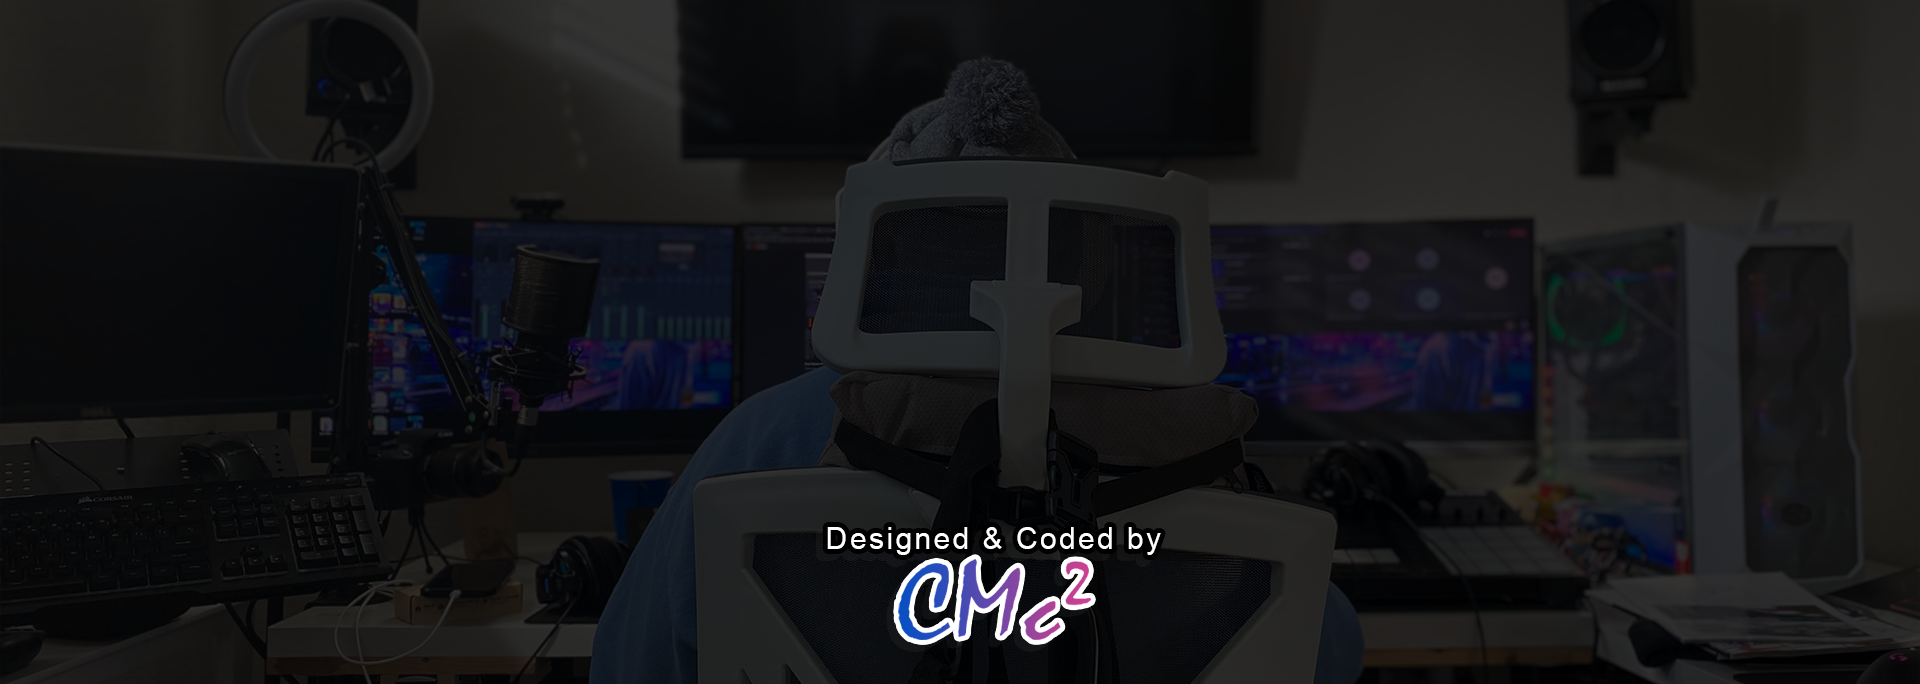
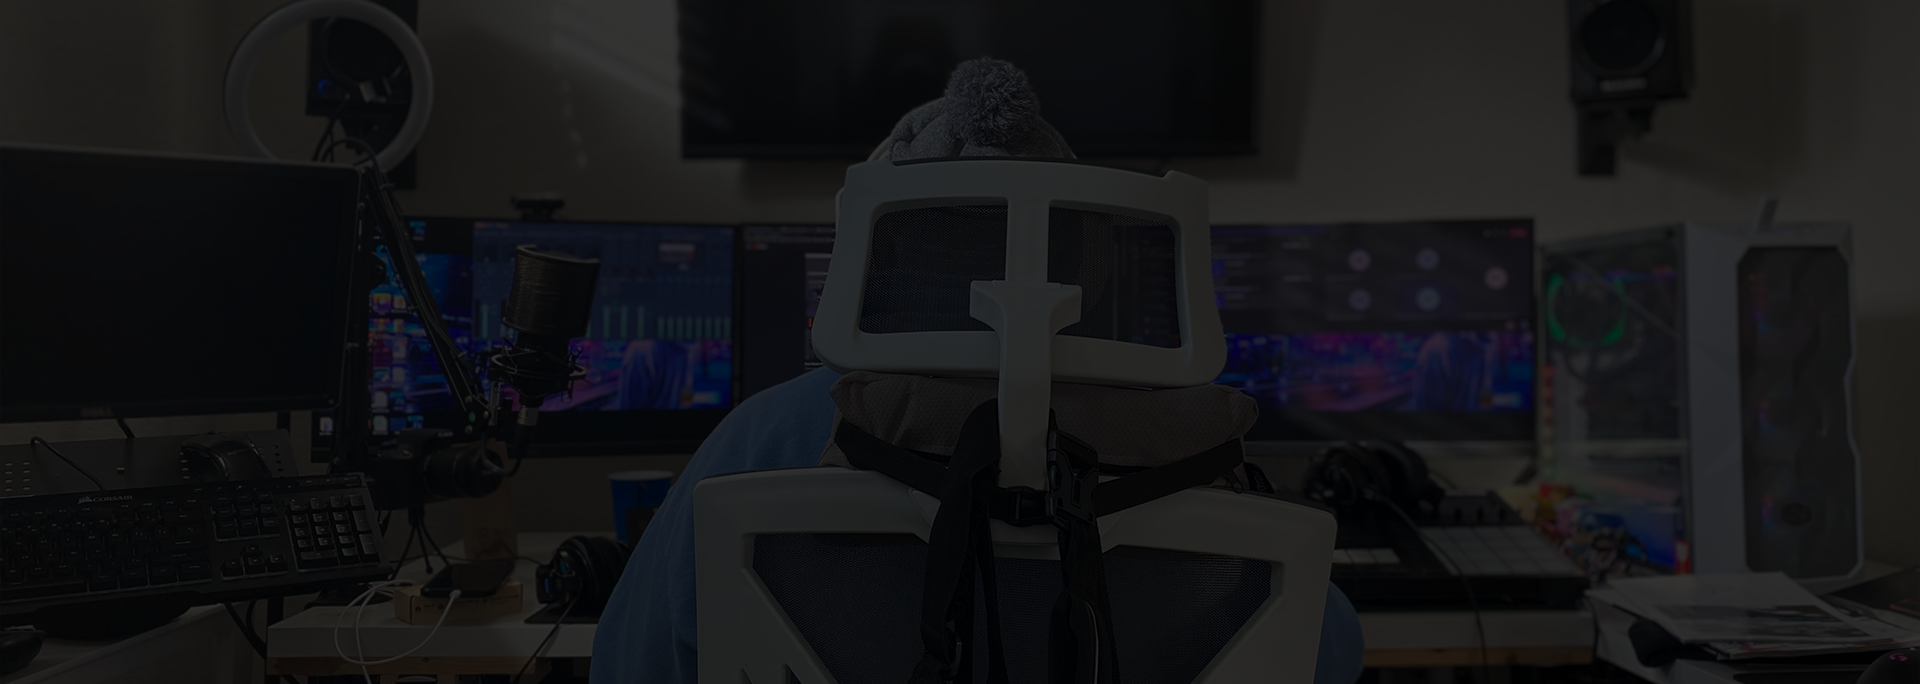
fixed the formatting of the contact section

Changed region(s): [[0.4062, 0.7675, 0.625, 0.9518]]

diff --git a/public_html/index.html b/public_html/index.html
@@ -28,7 +28,7 @@
 
 <!--About Me-->
 <section class="about-me bg-dark py-5" id="about-me">
-    <div class="container lead">
+    <div class="container lead text-center">
         <h1 class="mb-3">About Me</h1>
            <p class="about-para">Hello, I'm Clyde I've been in fascination with everything that has to do with technology and art all of my life. I am currently serving in the United States Air Force, going on now for 21 years and quickly approaching retirement. I'd consider myself having the thirst for knowledge and try to be a better version of myself than yesterday. I'm eagerly ready for my next chapter of my life entering into the tech industry. As a freelance graphic designer, I am passionate about solving my clients problems bringing their ideas to life. Lastly, as a web developer, I love bringing in all of my skill sets in creating meaningful products that bring people together.
            </p>
@@ -565,24 +565,24 @@
 </section>
 
 <!--Contact Email Form-->
-<section class="contact-form bg-dark lead text-white p-5 lead" id="contact-me">
+<section class="contact-form bg-dark lead text-white p-4 lead" id="contact-me">
     <!-- Contact Title -->
     <h1 class="contact-title text-center mb-3">Let's Connect</h1>
     <!-- EMail Form -->
-    <form class="container text-start p-5">
+    <form class="container text-start p-2 w-25">
         <!-- First/Last Name -->
-        <div class="row d-flex mb-3">
-            <div class="col-md-6 vstack">
+        <div class="row d-flex">
+            <div class="col-md-6 vstack mb-2">
                 <label class="form-label" for="firstname">First Name</label>
                 <input type="text" name="firstname" class="form-control" id="firstname" placeholder="First Name">
             </div>
-            <div class="col-md-6 vstack">
+            <div class="col-md-6 vstack mb-2">
                 <label class="form-label" for="lastname">Last Name</label>
                 <input type="text" name="lastname" class="form-control" id="lastname" placeholder="Last Name">
             </div>
         </div>
         <!-- Email -->
-        <div class="row d-flex mb-3">
+        <div class="row d-flex mb-2">
             <div class="col-md-6">
                 <label for="email" class="form-label">Email Address</label>
                 <input type="email" class="form-control" id="email" placeholder="name@example.com">
@@ -591,7 +591,7 @@
             <div class="col-md-6 vstack">
                 <label class="form-label" for="category">Choose Category</label>
                 <select class="form-control" name="category" id="category">
-                    <option value="blank" class="text-white">Blank</option>
+                    <option value="blank" class="text-white">Choose Topic</option>
                     <option value="employment">Employment</option>
                     <option value="graphic-design">Graphic Design</option>
                     <option value="web development">Web Development</option>
@@ -604,53 +604,29 @@
             </div>
         </div>
         <!-- Message/Text Area -->
-        <div class="mb-3 text-start mb-5">
-            <label for="text-area" class="form-label">Message</label>
+        <div class="text-start mb-5">
+            <label for="text-area" class="form-label w-50">Message</label>
             <textarea class="form-control" id="text-area" rows="3" maxlength="1000" placeholder="1000 Character Max"></textarea>
         </div>
         <!-- Submit Button -->
-        <div class="container-fluid bg-dark lead text-white d-flex justify-content-center">
+        <div class="container-fluid lead d-flex justify-content-center">
             <button class="rounded" type="submit">Submit</button>
         </div>
+
+        <br>
+
     </form>
-</section>
 
-<!--Let's Connect Graphic Image-->
-<section class="contact-img bg-dark d-flex justify-content-center">
-    <img src="./media/signature.png" class="w-100 text-center" alt="lets-connect">
-</section>
-
-<!-- Footer -->
-<footer class="socials bg-black py-3">
-    <div class="container text-center gap-3">
-        <div class="row gap-3">
-            <div class="col">
-                <a href="https://www.artstation.com/malymal"><img src="./media/artstation.png" class="shaddow-lg" alt="github" width="80" height="80">
-                </a>
-            </div>
-            <div class="col">
-                <a href="https://twitter.com/MALYMAL25"><img src="./media/twitter.png" class="shaddow-lg" alt="github" width="80" height="80">
-                </a>
-            </div>
-            <div class="col">
-                <a href="https://www.linkedin.com/in/clydemcneil/"><img src="./media/linkedin.png" class="shaddow-lg" alt="github" width="80" height="80">
-                </a>
-            </div>
-            <div class="col">
-                <a href="https://github.com/ClydeMcNeil25"><img src="./media/github.png" class="shaddow-lg" alt="github" width="80" height="80">
-                </a>
-            </div>
-            <div class="col">
-                <a href="https://www.fiverr.com/share/QwedQe"><img src="./media/fiverr.png" class="shaddow-lg" alt="github" width="80" height="80">
-                </a>
-            </div>
-            <div class="col">
-                <a href="https://www.behance.net/clydemcneil"><img src="./media/behance.png" class="shaddow-lg" alt="github" width="80" height="80">
-                </a>
-            </div>
-        </div>
+    <div class="socials text-center">
+        <a href="https://www.artstation.com/malymal"><img src="./media/artstation.png" class="shaddow-lg" alt="github" width="40" height="40"></a>
+        <a href="https://twitter.com/MALYMAL25"><img src="./media/twitter.png" class="shaddow-lg" alt="github" width="40" height="40"></a>
+        <a href="https://www.linkedin.com/in/clydemcneil/"><img src="./media/linkedin.png" class="shaddow-lg" alt="github" width="40" height="40"></a>
+        <a href="https://github.com/ClydeMcNeil25"><img src="./media/github.png" class="shaddow-lg" alt="github" width="40" height="40"></a>
+        <a href="https://www.fiverr.com/share/QwedQe"><img src="./media/fiverr.png" class="shaddow-lg" alt="github" width="40" height="40"></a>
+        <a href="https://www.behance.net/clydemcneil"><img src="./media/behance.png" class="shaddow-lg" alt="github" width="40" height="40"></a>
     </div>
-</footer>
+</section>
+
 <script src="script.js"></script>
 <script src="https://cdn.jsdelivr.net/npm/bootstrap@5.2.0/dist/js/bootstrap.bundle.min.js" integrity="sha384-A3rJD856KowSb7dwlZdYEkO39Gagi7vIsF0jrRAoQmDKKtQBHUuLZ9AsSv4jD4Xa" crossorigin="anonymous"></script>
     </body>

diff --git a/public_html/style.css b/public_html/style.css
@@ -1,32 +1,10 @@
 /* This affects the text in "About Me" & "Portfolio" sections for mobile view mode*/
 @media screen and (max-width: 768px) {
     .nav-link, h1, h2, h3, p, strong, ul, li .about-para .container-fluid img {
-        font-size: calc(10px + 1vh); !important;
+        font-size: calc(12px + 1vh); !important;
         margin: 0 !important;
     }
 }
-
-@media screen and (max-width: 992px) {
-    .nav-link, h1, h2, h3, p, strong, ul, li .about-para .container-fluid img {
-        font-size: calc(10px + 1vh); !important;
-        margin: 0 !important;
-    }
-}
-
-@media screen and (max-width: 1200px) {
-    .nav-link, h1, h2, h3, p, strong, ul, li .about-para .container-fluid img {
-        font-size: calc(16px + 1vh); !important;
-        margin: 0 !important;
-    }
-}
-
-@media screen and (max-width: 1400px) {
-    .nav-link, h1, h2, h3, p, strong, ul, li .about-para .container-fluid img {
-        font-size: calc(16px + 1vh); !important;
-        margin: 0 !important;
-    }
-}
-
 
 div div button {
     padding: 0;
@@ -42,4 +20,11 @@ div div button {
 
 .card {
     max-width: 18rem;
+}
+
+.contact-form {
+    background-image: url("./media/signature.png");
+    background-size: cover;
+    background-repeat: no-repeat;
+    background-position: center center;
 }
